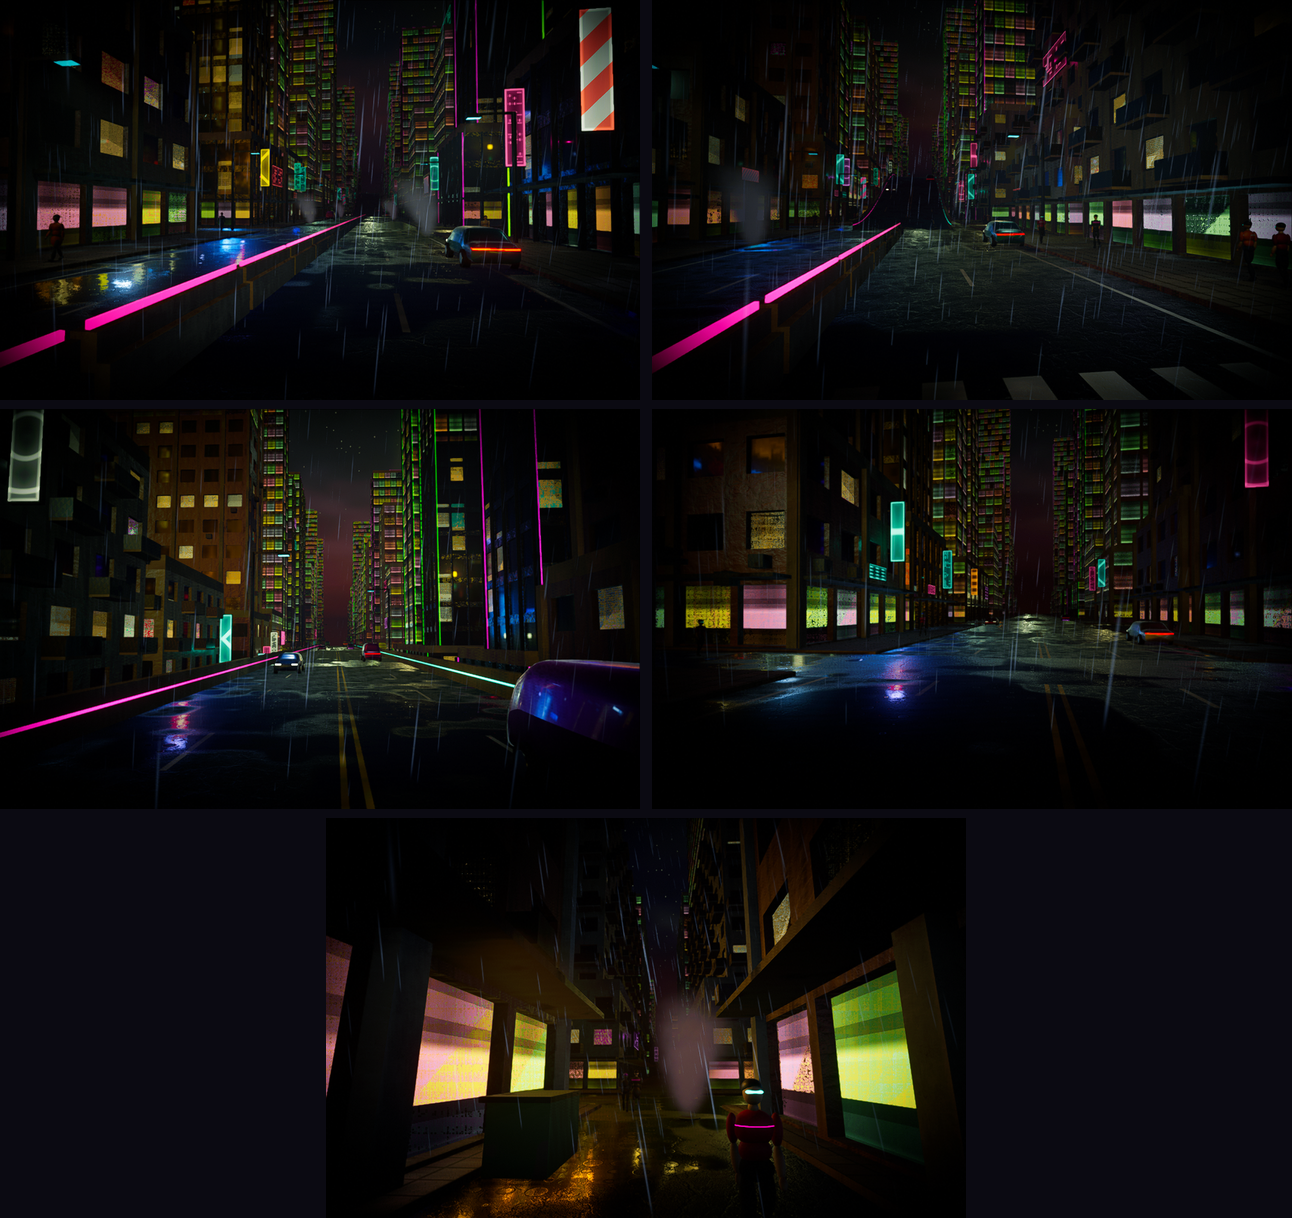
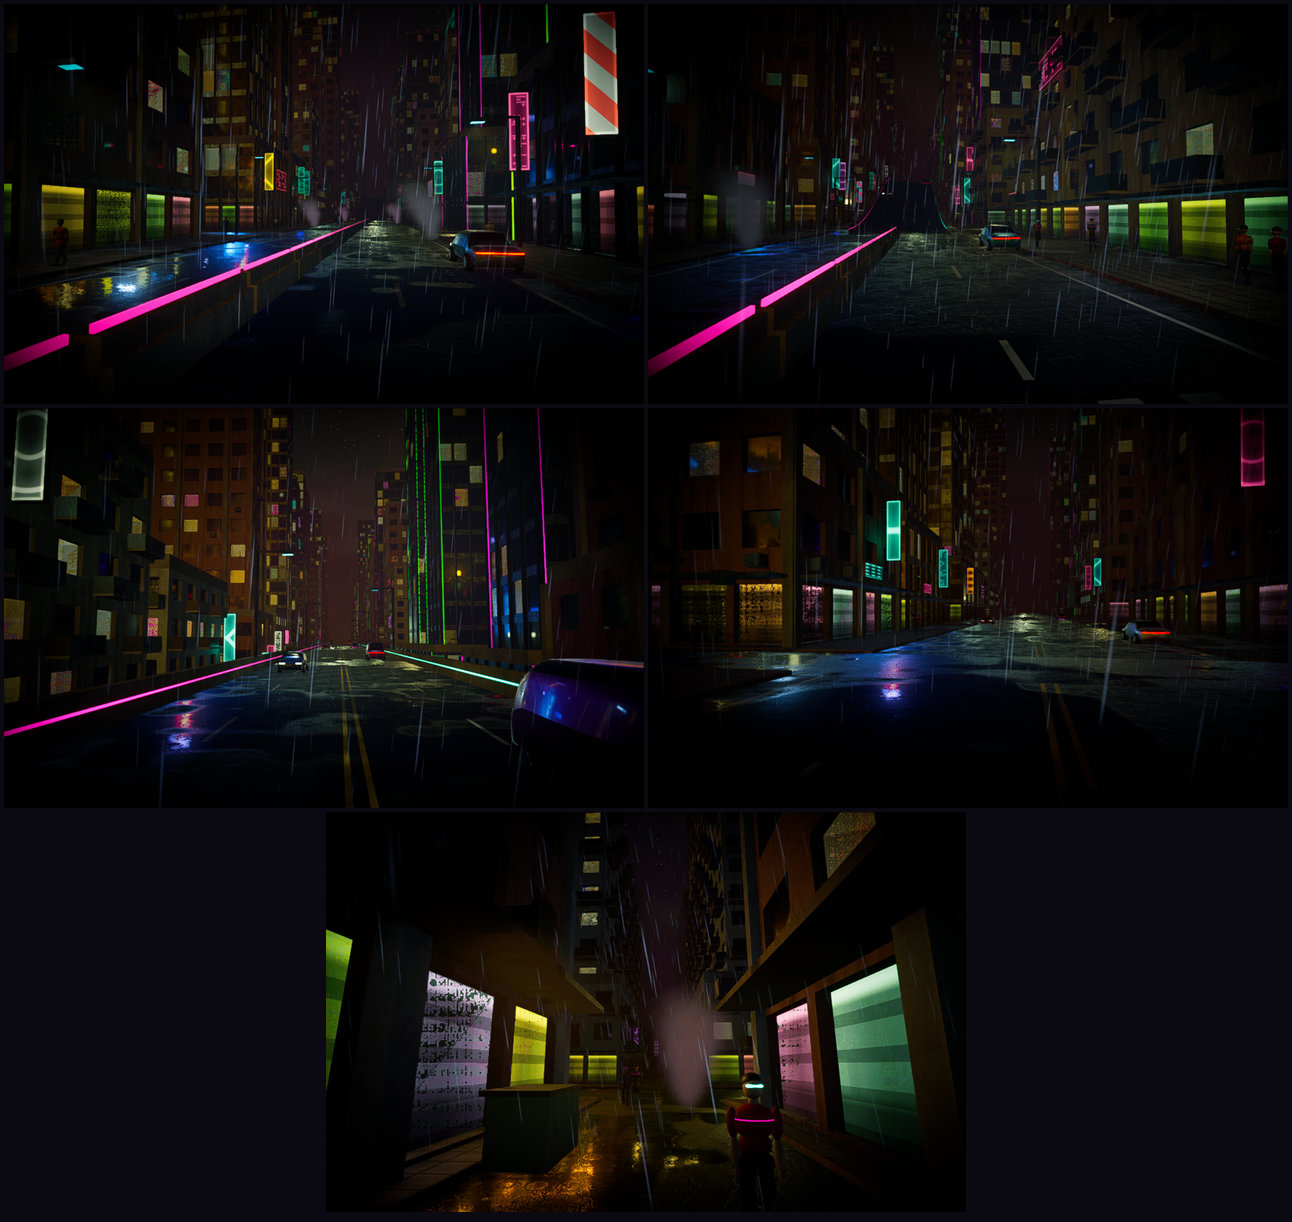
遠景の破綻を修正：マテリアルの UV 上下反転を切り、距離フォグで奥行きを出す
実機で「遠くの描写が雰囲気を壊す」と報告があった。原因は Filament の
マテリアルが既定で UV を上下反転（v → 1 - v）すること。外壁は v を地上からの
高さ[m]として使うため、全ての階が「1階（店舗）」と判定され、シェーダで窓を描く
壁（LOD1/LOD2 と LOD0 の13階以上）が全面点灯・ネオン色・棚の縞のモザイクになっていた。
足元の濡れ（wetBase）も全面に掛かっていた。

- facade / ground / vehicle / sign に flipUV : false（UV は手続き生成で自分で決めた値）
  横断歩道の 1m ずれと、車の窓の帯の位置も正しくなる
- 距離フォグの高さ減衰を 0.045 → 0.02、色を街明かりの赤紫に。高層の上まで薄くかすむ
- docs/shots.png を撮り直し

Claude-Session: https://claude.ai/code/session_0187qQwzS8813C1bQxGEv8y9

diff --git a/core/src/render/presets.cpp b/core/src/render/presets.cpp
@@ -63,9 +63,10 @@ void applyPreset(Engine& engine, View& view, const Preset& p, const SceneConfig&
     fog.distance = 20.0f;
     fog.density = 0.012f;
     fog.height = 0.0f;
-    fog.heightFalloff = 0.045f;
+    // 高さ方向の減衰を緩めて、高層の上の方まで街明かりのもやをかける（遠景の奥行き）
+    fog.heightFalloff = 0.02f;
     fog.maximumOpacity = 0.92f;
-    fog.color = {0.12f, 0.06f, 0.10f};
+    fog.color = {0.30f, 0.16f, 0.26f};  // 雨雲に映るネオンの赤紫
     fog.inScatteringStart = 10.0f;
     fog.inScatteringSize = 40.0f;
     view.setFogOptions(fog);
